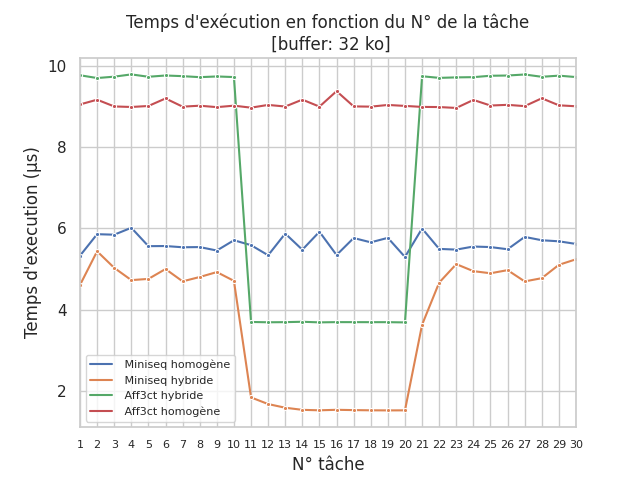
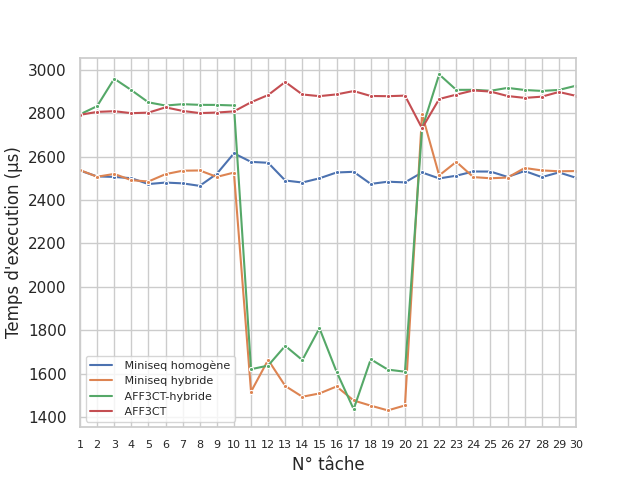
.

diff --git a/draw_plots.py b/draw_plots.py
@@ -1,97 +1,36 @@
 import seaborn as sns
 import pandas as pd 
 import matplotlib.pyplot as plt
+import numpy as np
+
+from matplotlib import pyplot as plt, ticker as mticker
 sns.set_theme(style="whitegrid")
 
 hybrid_data = pd.read_csv("./data/csv/hybrid.csv")
-copy_copyless_length = pd.read_csv("./data/csv/copy_copyless_length.csv")
-copy_copyless_size = pd.read_csv("./data/csv/copy_copyless_size.csv")
-copy_copyless_affect_size_full = pd.read_csv("./data/csv/copy_copy_less_affect.csv")
+copy_copyless_size = pd.read_csv("./data/csv/copy_copyless_size_huge.csv")
+heap_data = pd.read_csv("./data/csv/heaps.csv")
 
+copy_copyless_size = copy_copyless_size.set_index("Taille")
 hybrid_data = hybrid_data.set_index("Tâche")
-copy_copyless_length = copy_copyless_length.set_index('Longueur')
-copy_copyless_size = copy_copyless_size.set_index('Taille')
-copy_copyless_affect_size_full = copy_copyless_affect_size_full.set_index('Taille')
 ### HYBRIDE ###
-graph = sns.lineplot(data=hybrid_data[[" Séquence homogène", " Séquence hybride"]], dashes=False, marker=".")
+graph = sns.lineplot(data=hybrid_data[[" Miniseq homogène", " Miniseq hybride", " AFF3CT-hybride", " AFF3CT"]], dashes=False, marker=".")
 plt.ylabel("Temps d'execution (µs)")
 plt.xlabel("N° tâche")
 plt.xlim(1, 30)
 plt.xticks(hybrid_data.index)
-plt.errorbar(x=hybrid_data.index, y=hybrid_data[" Séquence homogène"], linewidth=1, yerr=hybrid_data[" Ecart-type homogène"], fmt='none', capsize=3, capthick=1, )
-plt.errorbar(x=hybrid_data.index, y=hybrid_data[" Séquence hybride"], linewidth=1, yerr=hybrid_data[" Ecart-type hybride"], fmt='none', capsize=3, capthick=1, color="#FFA07A")
-plt.title("Temps d'exécution en fonction du N° de la tâche\n [buffer: 32 ko]")
+#plt.errorbar(x=hybrid_data.index, y=hybrid_data[" Miniseq homogène"], linewidth=1, yerr=hybrid_data[" Ecart-type Miniseq homogène"], fmt='none', capsize=3, capthick=1, )
+#plt.errorbar(x=hybrid_data.index, y=hybrid_data[" Miniseq hybride"], linewidth=1, yerr=hybrid_data[" Ecart-type Miniseq hybride"], fmt='none', capsize=3, capthick=1, color="#FFA07A")
+#plt.errorbar(x=hybrid_data.index, y=hybrid_data[" Aff3ct homogène"], linewidth=1, yerr=hybrid_data[" Ecart-type Aff3ct homogène"], fmt='none', capsize=3, capthick=1, color="#D33F49")
+#plt.errorbar(x=hybrid_data.index, y=hybrid_data[" Aff3ct hybride"], linewidth=1, yerr=hybrid_data[" Ecart-type Aff3ct hybride"], fmt='none', capsize=3, capthick=1, color="#3fa162")
+plt.legend(loc='lower left', fontsize="8")
 plt.tick_params(axis='x', which='major', labelsize=8)
 graph.get_figure().savefig("./data/graph/hybrid_homog.png")
 plt.close()
-### COPY-COPYLESS LENGTH ###
-graph = sns.lineplot(data=copy_copyless_length[[" Séquence avec copie", " Séquence sans copie"]], dashes=False, marker=".")
-plt.errorbar(x=copy_copyless_length.index, y=copy_copyless_length[" Séquence avec copie"], linewidth=1, yerr=copy_copyless_length[" Ecart-type copie"], fmt='none', capsize=3, capthick=1, )
-plt.errorbar(x=copy_copyless_length.index, y=copy_copyless_length[" Séquence sans copie"], linewidth=1, yerr=copy_copyless_length[" Ecart-type sans copie"], fmt='none', capsize=3, capthick=1, color="#FFA07A")
-plt.title("Temps d'exécution en fonction de la longueur de la séquence\n [buffer: 150 ko]")
+#### TEST ####
+graph = sns.lineplot(data=copy_copyless_size[[" Miniseq", " Miniseq-io", " AFF3CT-io", " AFF3CT"]], dashes=False)
+plt.yscale('log')
+plt.xscale('log')
+plt.savefig("./data/graph/copy_copyless_affect_size_huge_loglog.png")
 plt.ylabel("Temps d'execution (µs)")
-plt.xlabel("Longueur (nombre de tâches)")
-plt.xticks(copy_copyless_length.index)
-plt.ylim(0)
-plt.xlim(1, 19)
-graph.get_figure().savefig("./data/graph/copy_copyless_length.png")
-plt.close()
-### COPY-COPY-LESS-AFFECT ###
-copy_copyless_affect_size = copy_copyless_affect_size_full.loc[(copy_copyless_affect_size_full.index >= 32) & (copy_copyless_affect_size_full.index <= 83)]
-graph = sns.lineplot(data=copy_copyless_affect_size[[" Séquence avec copie", " Séquence sans copie", " Aff3ct"]], dashes=False, marker=".")
-plt.errorbar(x=copy_copyless_affect_size.index, y=copy_copyless_affect_size[" Séquence avec copie"], linewidth=1, yerr=copy_copyless_affect_size[" Ecart-type copie"], fmt='none', capsize=3, capthick=1)
-plt.errorbar(x=copy_copyless_affect_size.index, y=copy_copyless_affect_size[" Aff3ct"], linewidth=1, yerr=copy_copyless_affect_size[" Ecart-type Aff3ct"], fmt='none', capsize=3, capthick=1, color="#4CAF50")
-plt.errorbar(x=copy_copyless_affect_size.index, y=copy_copyless_affect_size[" Séquence sans copie"], linewidth=1, yerr=copy_copyless_affect_size[" Ecart-type sans copie"], fmt='none', capsize=3, capthick=1, color="#FFA07A")
-
-plt.title("Temps d'exécution en fonction de la taille des données\n [20 tâches]")
-plt.ylabel("Temps d'execution (µs)")
-plt.xlabel("Taille (ko)")
-plt.xlim(32, 83)
-plt.xticks(copy_copyless_affect_size.index)
-graph.get_figure().savefig("./data/graph/copy_copyless_affect_size.png")
-plt.close()
-### COPY-COPY-LESS-AFFECT FULL ###
-graph = sns.lineplot(data=copy_copyless_affect_size_full[[" Séquence avec copie", " Séquence sans copie", " Aff3ct"]], dashes=False, marker=".")
-plt.errorbar(x=copy_copyless_affect_size_full.index, y=copy_copyless_affect_size_full[" Séquence avec copie"], linewidth=1, yerr=copy_copyless_affect_size_full[" Ecart-type copie"], fmt='none', capsize=3, capthick=1)
-plt.errorbar(x=copy_copyless_affect_size_full.index, y=copy_copyless_affect_size_full[" Aff3ct"], linewidth=1, yerr=copy_copyless_affect_size_full[" Ecart-type Aff3ct"], fmt='none', capsize=3, capthick=1, color="#4CAF50")
-plt.errorbar(x=copy_copyless_affect_size_full.index, y=copy_copyless_affect_size_full[" Séquence sans copie"], linewidth=1, yerr=copy_copyless_affect_size_full[" Ecart-type sans copie"], fmt='none', capsize=3, capthick=1, color="#FFA07A")
-
-plt.title("Temps d'exécution en fonction de la taille des données\n [20 tâches]")
-plt.ylabel("Temps d'execution (µs)")
-plt.xlabel("Taille (ko)")
-plt.xlim(2, 99)
-plt.ylim(0)
-plt.xticks(copy_copyless_affect_size_full.index)
-graph.get_figure().savefig("./data/graph/copy_copyless_affect_size_full.png")
-plt.close()
-
-### COPY-COPY-LESS-AFFECT GAIN ###
-copy_copyless_affect_size = copy_copyless_affect_size_full.loc[(copy_copyless_affect_size_full.index >= 32) & (copy_copyless_affect_size_full.index <= 99)]
-gain_copy_copy_less = (copy_copyless_affect_size[" Séquence sans copie"] - copy_copyless_affect_size[" Séquence avec copie"]) / copy_copyless_affect_size[" Séquence avec copie"] * 100 * (-1) 
-gain_copy_affect = (copy_copyless_affect_size[" Séquence avec copie"] - copy_copyless_affect_size[" Aff3ct"]) / copy_copyless_affect_size[" Aff3ct"] * 100 * (-1)
-gain_copy_less_affect = (copy_copyless_affect_size[" Séquence sans copie"] - copy_copyless_affect_size[" Aff3ct"]) / copy_copyless_affect_size[" Aff3ct"] * 100 * (-1)
-
-fig, ax1 = plt.subplots(figsize=(12,6))
-ax2 = ax1.twinx()
-
-ax1.set_ylabel("Temps d'execution (µs)")
-ax1.set_xlabel("Taille (ko)")
-ax1.set_ylim(0, 200)
-ax1.set_title("Temps d'exécution en fonction de la taille des données\n [20 tâches]")
-
-ax2.set_ylabel("Gain (%)")
-ax2.set_ylim(0, 100)
-ax2.grid(False)
-# plot the second graph with "copy-copyless-affect" data
-sns.lineplot(data=copy_copyless_affect_size[[" Séquence avec copie", " Séquence sans copie", " Aff3ct"]], dashes=False, marker=".", ax=ax1)
-ax1.errorbar(x=copy_copyless_affect_size.index, y=copy_copyless_affect_size[" Séquence avec copie"], linewidth=1, yerr=copy_copyless_affect_size[" Ecart-type copie"], fmt='none', capsize=3, capthick=1)
-ax1.errorbar(x=copy_copyless_affect_size.index, y=copy_copyless_affect_size[" Aff3ct"], linewidth=1, yerr=copy_copyless_affect_size[" Ecart-type Aff3ct"], fmt='none', capsize=3, capthick=1, color="#4CAF50")
-ax1.errorbar(x=copy_copyless_affect_size.index, y=copy_copyless_affect_size[" Séquence sans copie"], linewidth=1, yerr=copy_copyless_affect_size[" Ecart-type sans copie"], fmt='none', capsize=3, capthick=1, color="#FFA07A")
-ax2.bar(copy_copyless_affect_size.index+0.5, gain_copy_copy_less, width=1, label="Avec Copie | Sans Copie", color="grey")
-ax2.bar(copy_copyless_affect_size.index+1.5, gain_copy_affect, width=1, label="Avec Copie | Aff3ct", color="brown")
-ax2.bar(copy_copyless_affect_size.index+2.5, gain_copy_less_affect, width=1,  label="Sans Copie | Aff3ct", color="olivedrab")
-ax2.legend()
-plt.xticks(copy_copyless_affect_size.index)
-plt.xlim(32, 88)
-plt.savefig("./data/graph/copy_copyless_affect_size_gain.png")
+plt.xlabel("Taille (octet)")
 plt.close()
